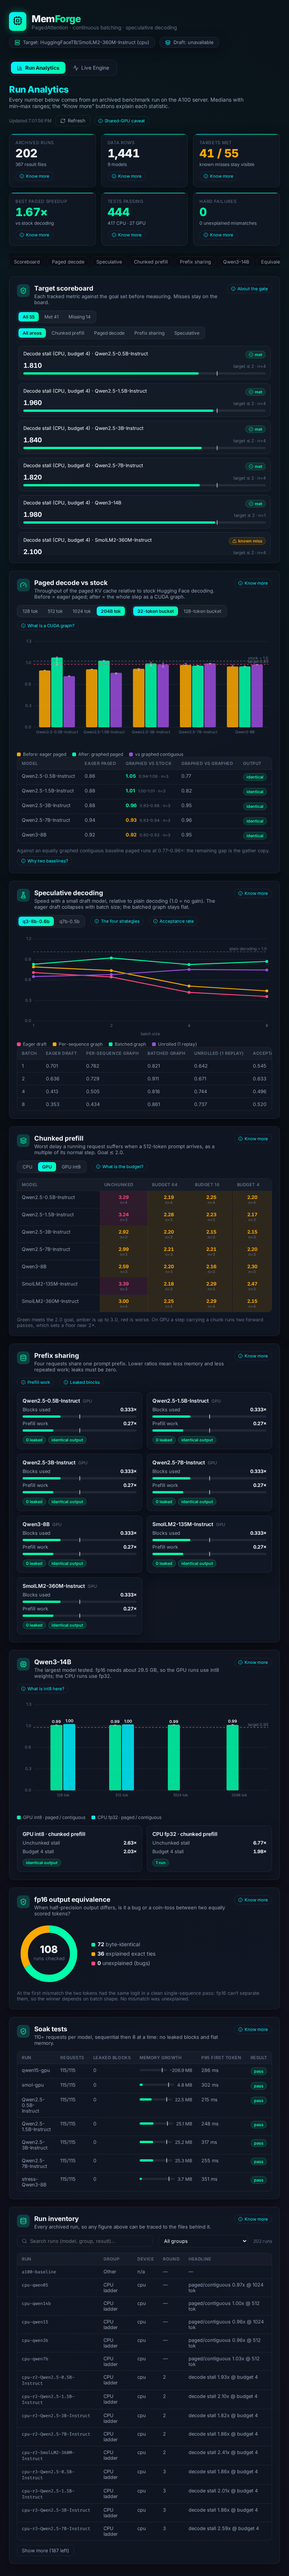
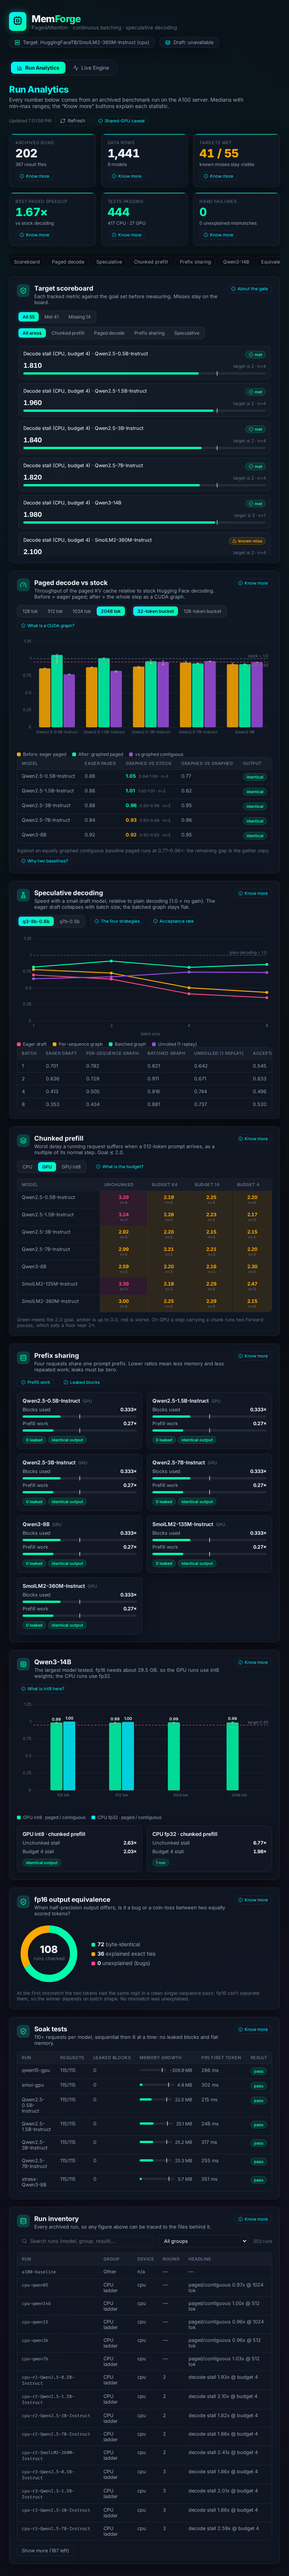
feat: graph 'auto' mode, deprecate per-sequence draft pool, phone KPI grid, tests recorded

Changed region(s): [[0.4688, 0.3735, 0.9062, 0.4046], [0.0938, 0.3735, 0.25, 0.4046]]

diff --git a/frontend/src/components/analytics/analytics.css b/frontend/src/components/analytics/analytics.css
@@ -160,6 +160,9 @@
 .mf-files li { display: flex; align-items: center; gap: 6px; }
 
 @media (max-width: 640px) {
+  .mf-kpis { grid-template-columns: repeat(2, minmax(0, 1fr)); gap: 10px; }
+  .mf-kpi { padding: 12px; }
+  .mf-kpi-label { font-size: .66rem; }
   .mf-section { padding: 14px; }
   .mf-kpi-value { font-size: 1.55rem; }
   .mf-hero h2 { font-size: 1.25rem; }

diff --git a/tests/python/test_graph_auto.py b/tests/python/test_graph_auto.py
@@ -1,0 +1,56 @@
+"""'auto' turns the CUDA-graph paths on only where they can work, and never breaks a CPU engine."""
+import warnings
+
+import pytest
+import torch
+
+from memforge_ml.runtime.continuous_engine import HAS_CPP_ENGINE, ContinuousBatchingEngine
+from memforge_ml.runtime.sampling import SamplingParams
+
+pytestmark = pytest.mark.skipif(not HAS_CPP_ENGINE, reason="native extension not built")
+TARGET, DRAFT = "HuggingFaceTB/SmolLM2-360M-Instruct", "HuggingFaceTB/SmolLM2-135M-Instruct"
+
+
+def load(device):
+    from transformers import AutoModelForCausalLM, AutoTokenizer
+    try:
+        tok = AutoTokenizer.from_pretrained(TARGET, local_files_only=True)
+        t = AutoModelForCausalLM.from_pretrained(TARGET, dtype=torch.float32, local_files_only=True).to(device).eval()
+        d = AutoModelForCausalLM.from_pretrained(DRAFT, dtype=torch.float32, local_files_only=True).to(device).eval()
+    except OSError:
+        pytest.skip("models not cached")
+    return tok, t, d
+
+
+def test_auto_is_a_safe_no_op_on_cpu():
+    tok, t, d = load("cpu")
+    eng = ContinuousBatchingEngine(t, tok, block_size=16, kv_budget_mb=64, max_num_seqs=2, max_model_len=256,
+                                   draft_model=d, lookahead_k=2, paged_cuda_graph="auto", draft_cuda_graph="auto")
+    assert eng._paged_graph is None and eng._draft_pool is None
+    out = eng.generate(["The capital of France is"], SamplingParams(max_new_tokens=8, temperature=0.0, stop_on_eos=False))
+    assert len(out[0]["token_ids"]) == 8
+
+
+@pytest.mark.skipif(not torch.cuda.is_available(), reason="needs a CUDA device")
+def test_auto_enables_graphs_on_cuda_and_matches_eager():
+    from memforge_ml.runtime.batched_speculative import BatchedGraphedDraftPool
+    tok, t, d = load("cuda")
+    prompts = ["The capital of France is", "def fibonacci(n):"]
+    params = SamplingParams(max_new_tokens=16, temperature=0.0, top_p=1.0, stop_on_eos=False)
+
+    def run(**kw):
+        eng = ContinuousBatchingEngine(t, tok, block_size=16, kv_budget_mb=128, max_num_seqs=2, max_model_len=256, **kw)
+        return eng, [r["token_ids"] for r in eng.generate(prompts, params)]
+
+    _, plain = run()
+    eng, got = run(draft_model=d, lookahead_k=3, paged_cuda_graph="auto", draft_cuda_graph="auto")
+    assert eng._paged_graph is not None and isinstance(eng._draft_pool, BatchedGraphedDraftPool)
+    assert got == plain
+
+
+@pytest.mark.skipif(not torch.cuda.is_available(), reason="needs a CUDA device")
+def test_per_sequence_draft_graph_warns_as_deprecated():
+    tok, t, d = load("cuda")
+    with pytest.warns(DeprecationWarning, match="batched"):
+        ContinuousBatchingEngine(t, tok, block_size=16, kv_budget_mb=64, max_num_seqs=2, max_model_len=128,
+                                 draft_model=d, lookahead_k=2, draft_cuda_graph=True)

diff --git a/memforge_ml/runtime/continuous_engine.py b/memforge_ml/runtime/continuous_engine.py
@@ -150,7 +150,7 @@ class ContinuousBatchingEngine:
         lookahead_k: int = 0,
         fused_prefill: bool = False,
         draft_cuda_graph=False,  # False | True (per-sequence graphs) | "batched"
-        paged_cuda_graph: bool = False,
+        paged_cuda_graph=False,  # False | True | "auto" (on when CUDA + sdpa allow it)
     ):
         if not HAS_CPP_ENGINE:
             raise RuntimeError(
@@ -204,6 +204,21 @@ class ContinuousBatchingEngine:
         # Optional: the whole plain decode step (index translation, KV write,
         # gather, forward) as one replayed CUDA graph. See graphed_paged_decode.
         self._paged_graph = None
+        graphs_ok = self._cuda_graphs_possible(model)
+        if paged_cuda_graph == "auto":
+            paged_cuda_graph = graphs_ok
+        if draft_cuda_graph == "auto":
+            draft_cuda_graph = (
+                "batched" if graphs_ok and draft_model is not None and self._cuda_graphs_possible(draft_model) else False
+            )
+        if draft_cuda_graph is True:
+            import warnings
+            warnings.warn(
+                "draft_cuda_graph=True (one graph per sequence) is superseded by 'batched', which stays "
+                "flat as the batch grows (0.82-0.91x vs 0.43-0.78x at batch 1-8 on Qwen3-8B); "
+                "pass draft_cuda_graph='batched' or 'auto'.",
+                DeprecationWarning, stacklevel=2,
+            )
         if paged_cuda_graph:
             self._paged_graph = GraphedPagedDecoder(
                 model, self.pool, max_batch=max_num_seqs, max_model_len=max_model_len,
@@ -1144,6 +1159,13 @@ class ContinuousBatchingEngine:
             if ev is not None:
                 events.append(ev)
         return events
+
+    def _cuda_graphs_possible(self, model) -> bool:
+        """CUDA graphs need a CUDA device and the sdpa attention backend (see GraphedPagedDecoder)."""
+        return bool(
+            str(self.device).startswith("cuda") and torch.cuda.is_available()
+            and getattr(model.config, "_attn_implementation", None) == "sdpa"
+        )
 
     def _decode_graphed(self, rts: List[SequenceRuntime]) -> List[TokenEvent]:
         """Plain decode for `rts` as one graph replay (writes KV in-graph)."""

diff --git a/docs/TASKS.md b/docs/TASKS.md
@@ -24,8 +24,8 @@ Evidence for every ✅ is in `benchmarks/results/runs/` and summarised in
 | T2 | Finish 14B CPU chunked-prefill run and record it | ✅ |
 | T3 | Regression gate (`scripts/check_targets.py`, baseline `benchmarks/targets_baseline.json`) | ✅ 6 tests; 0 hard failures on current runs |
 | T4 | One-command setup script (`scripts/setup_server.sh`, has `--dry-run`) | ✅ syntax + dry run checked; not executed (network was down) |
-| T5 | Re-run all GPU tests after the 32-token bucket default; repeat 3x | ✅ 27 passed x3 |
-| T6 | Re-run the full CPU suite; repeat 3x | ✅ 417 passed, 20 skipped x3 |
+| T5 | Re-run all GPU tests after the 32-token bucket default; repeat 3x | ✅ 30 passed x3 (incl. auto-mode tests) |
+| T6 | Re-run the full CPU suite; repeat 3x | ✅ 421 passed, 22 skipped x3 |
 | T7 | Final results report + docs refresh, commit | ✅ |
 
 ## C. Backlog (not started, ordered by expected payoff)
@@ -34,15 +34,26 @@ Evidence for every ✅ is in `benchmarks/results/runs/` and summarised in
 |---|---|---|
 | B1 | Read KV from the pool inside attention instead of gathering a copy | closes the 2048-token paged gap on 7B/8B (0.92-0.93 -> >= 0.95) |
 | B2 | Make speculation win: larger target, tuned draft, rerun on a quiet card | batch-1 1.03x was seen on a quiet card; nothing wins on a contended one |
-| B3 | Make the graphed paths default on GPU with a safe eager fallback | users get the speedup without flags |
+| B3 | ✅ `paged_cuda_graph="auto"` / `draft_cuda_graph="auto"`: on only when CUDA + sdpa allow it, otherwise off (CPU engines unaffected); 3 tests. Server default left off on purpose | users get the speedup with one flag |
 | B4 | Chunked prefill on GPU: floor is ~2.15x (target 2.0x) | per-step fixed cost; try graphing the chunk step |
 | B5 | Fused prefill makes GPU slower: fix or remove | currently off by default |
 | B6 | Speculation with sampling: unrolled draft is greedy-only | sampled output only has the statistical check |
-| B7 | Retire one of the two graphed-draft pools | per-sequence pool is superseded by the batched one |
+| B7 | ✅ per-sequence pool deprecated (`DeprecationWarning` pointing to `"batched"`); kept for compatibility, test covers the warning | superseded by the batched pool |
 | B8 | Push to GitHub | needs a fresh access token from the owner |
 | B9 | Confirm whose GPU miner was seen earlier in this container | owner question; it is no longer running |
 | B10 | Run 14B in fp16 (not int8) | needs ~30 GB free; the other tenants hold 15.6 GB |
 | B11 | Re-run pre-explainer speculative runs so the gate can classify them | older rows have no `output_equivalent` |
+
+## C2. Dashboard / frontend (this session)
+
+| # | Task | Status |
+|---|---|---|
+| U1 | Backend `GET /v1/results`: aggregates every archived run (median, min-max, n), cached by file mtime | ✅ `server/results_data.py`, 3 tests |
+| U2 | Run Analytics tab: KPIs, scoreboard, paged decode, speculative, chunked prefill, prefix sharing, Qwen3-14B, fp16 equivalence, soak, run inventory | ✅ |
+| U3 | Animations: count-up KPIs, bars grow, lines draw, donut sweep, staggered reveals, skeletons; all off under `prefers-reduced-motion` | ✅ |
+| U4 | "Know more" pop-up on every statistic (what / why / how measured / how to read / our result / caveats / files) | ✅ 24 on Analytics + 10 on Live; accessible modal (Esc, focus trap + restore, scroll lock, backdrop) |
+| U5 | Layout audit in a real headless browser at 360/414/768/1024/1440 on both tabs | ✅ 0 overflow, 0 console errors; bugs found and fixed: modal path overflow at 360px (9 of 24), unreadable scaled chart text, overlapping reference labels, misleading axis ticks, single-column KPI grid on phones |
+| U6 | Repeatable audits in `frontend/e2e/` | ✅ |
 
 ## D. Known limits (not bugs)
 
